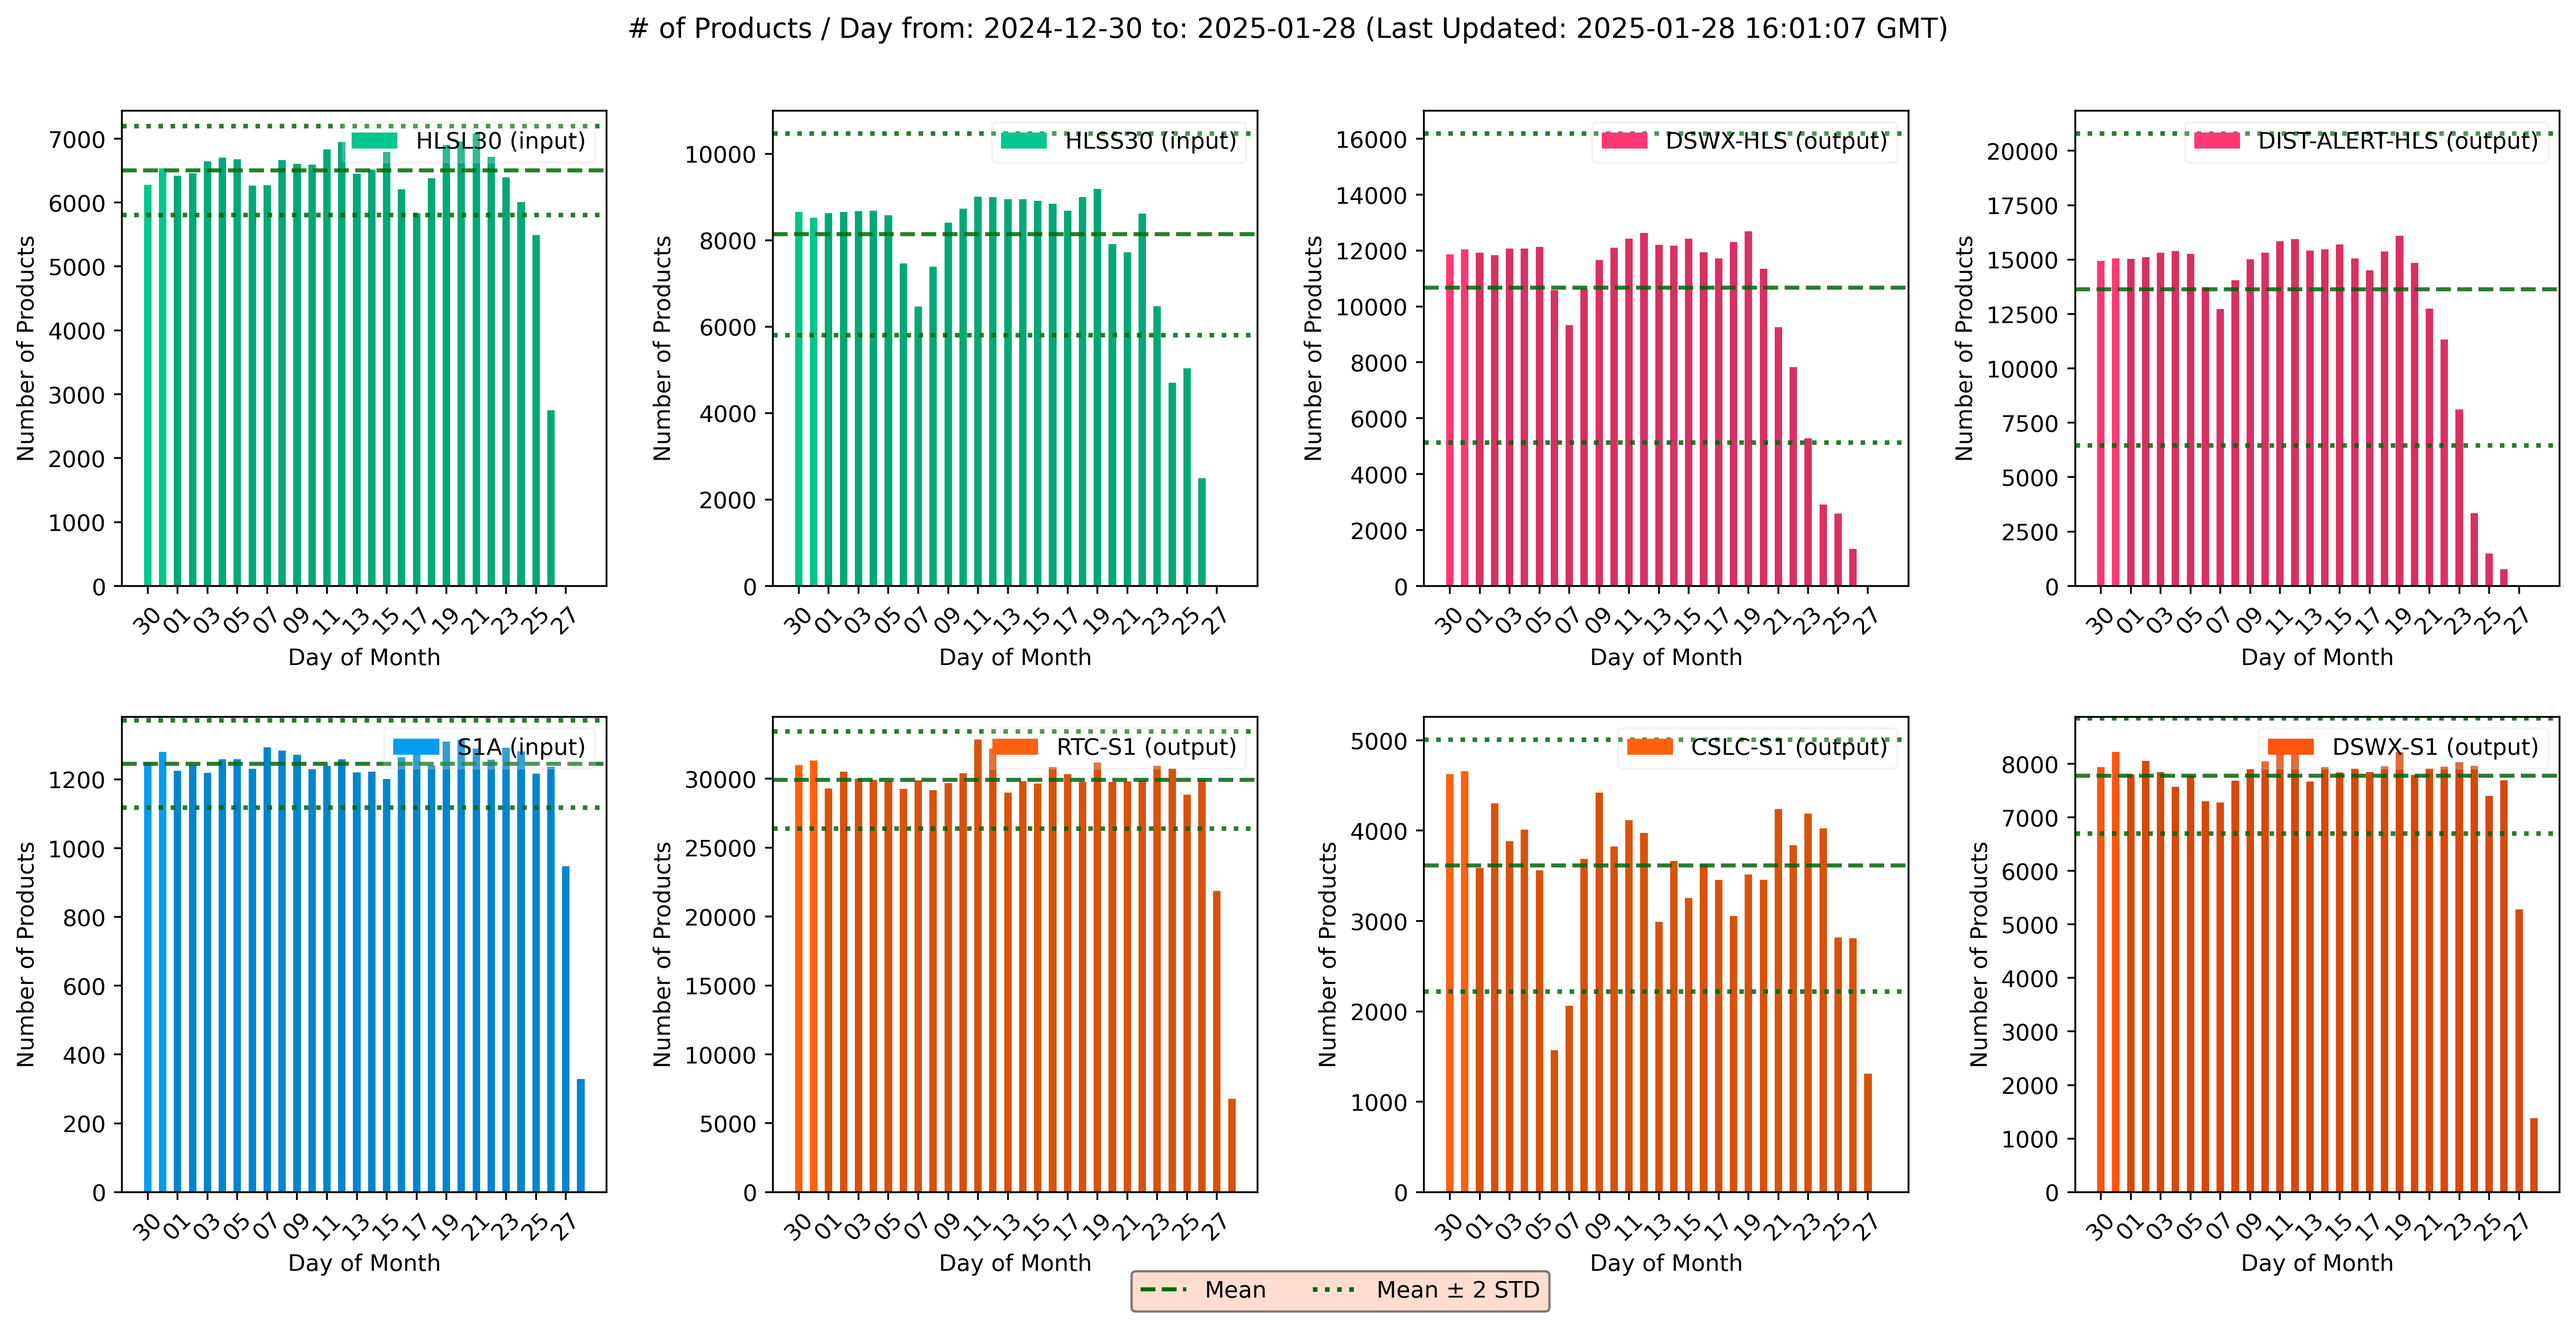
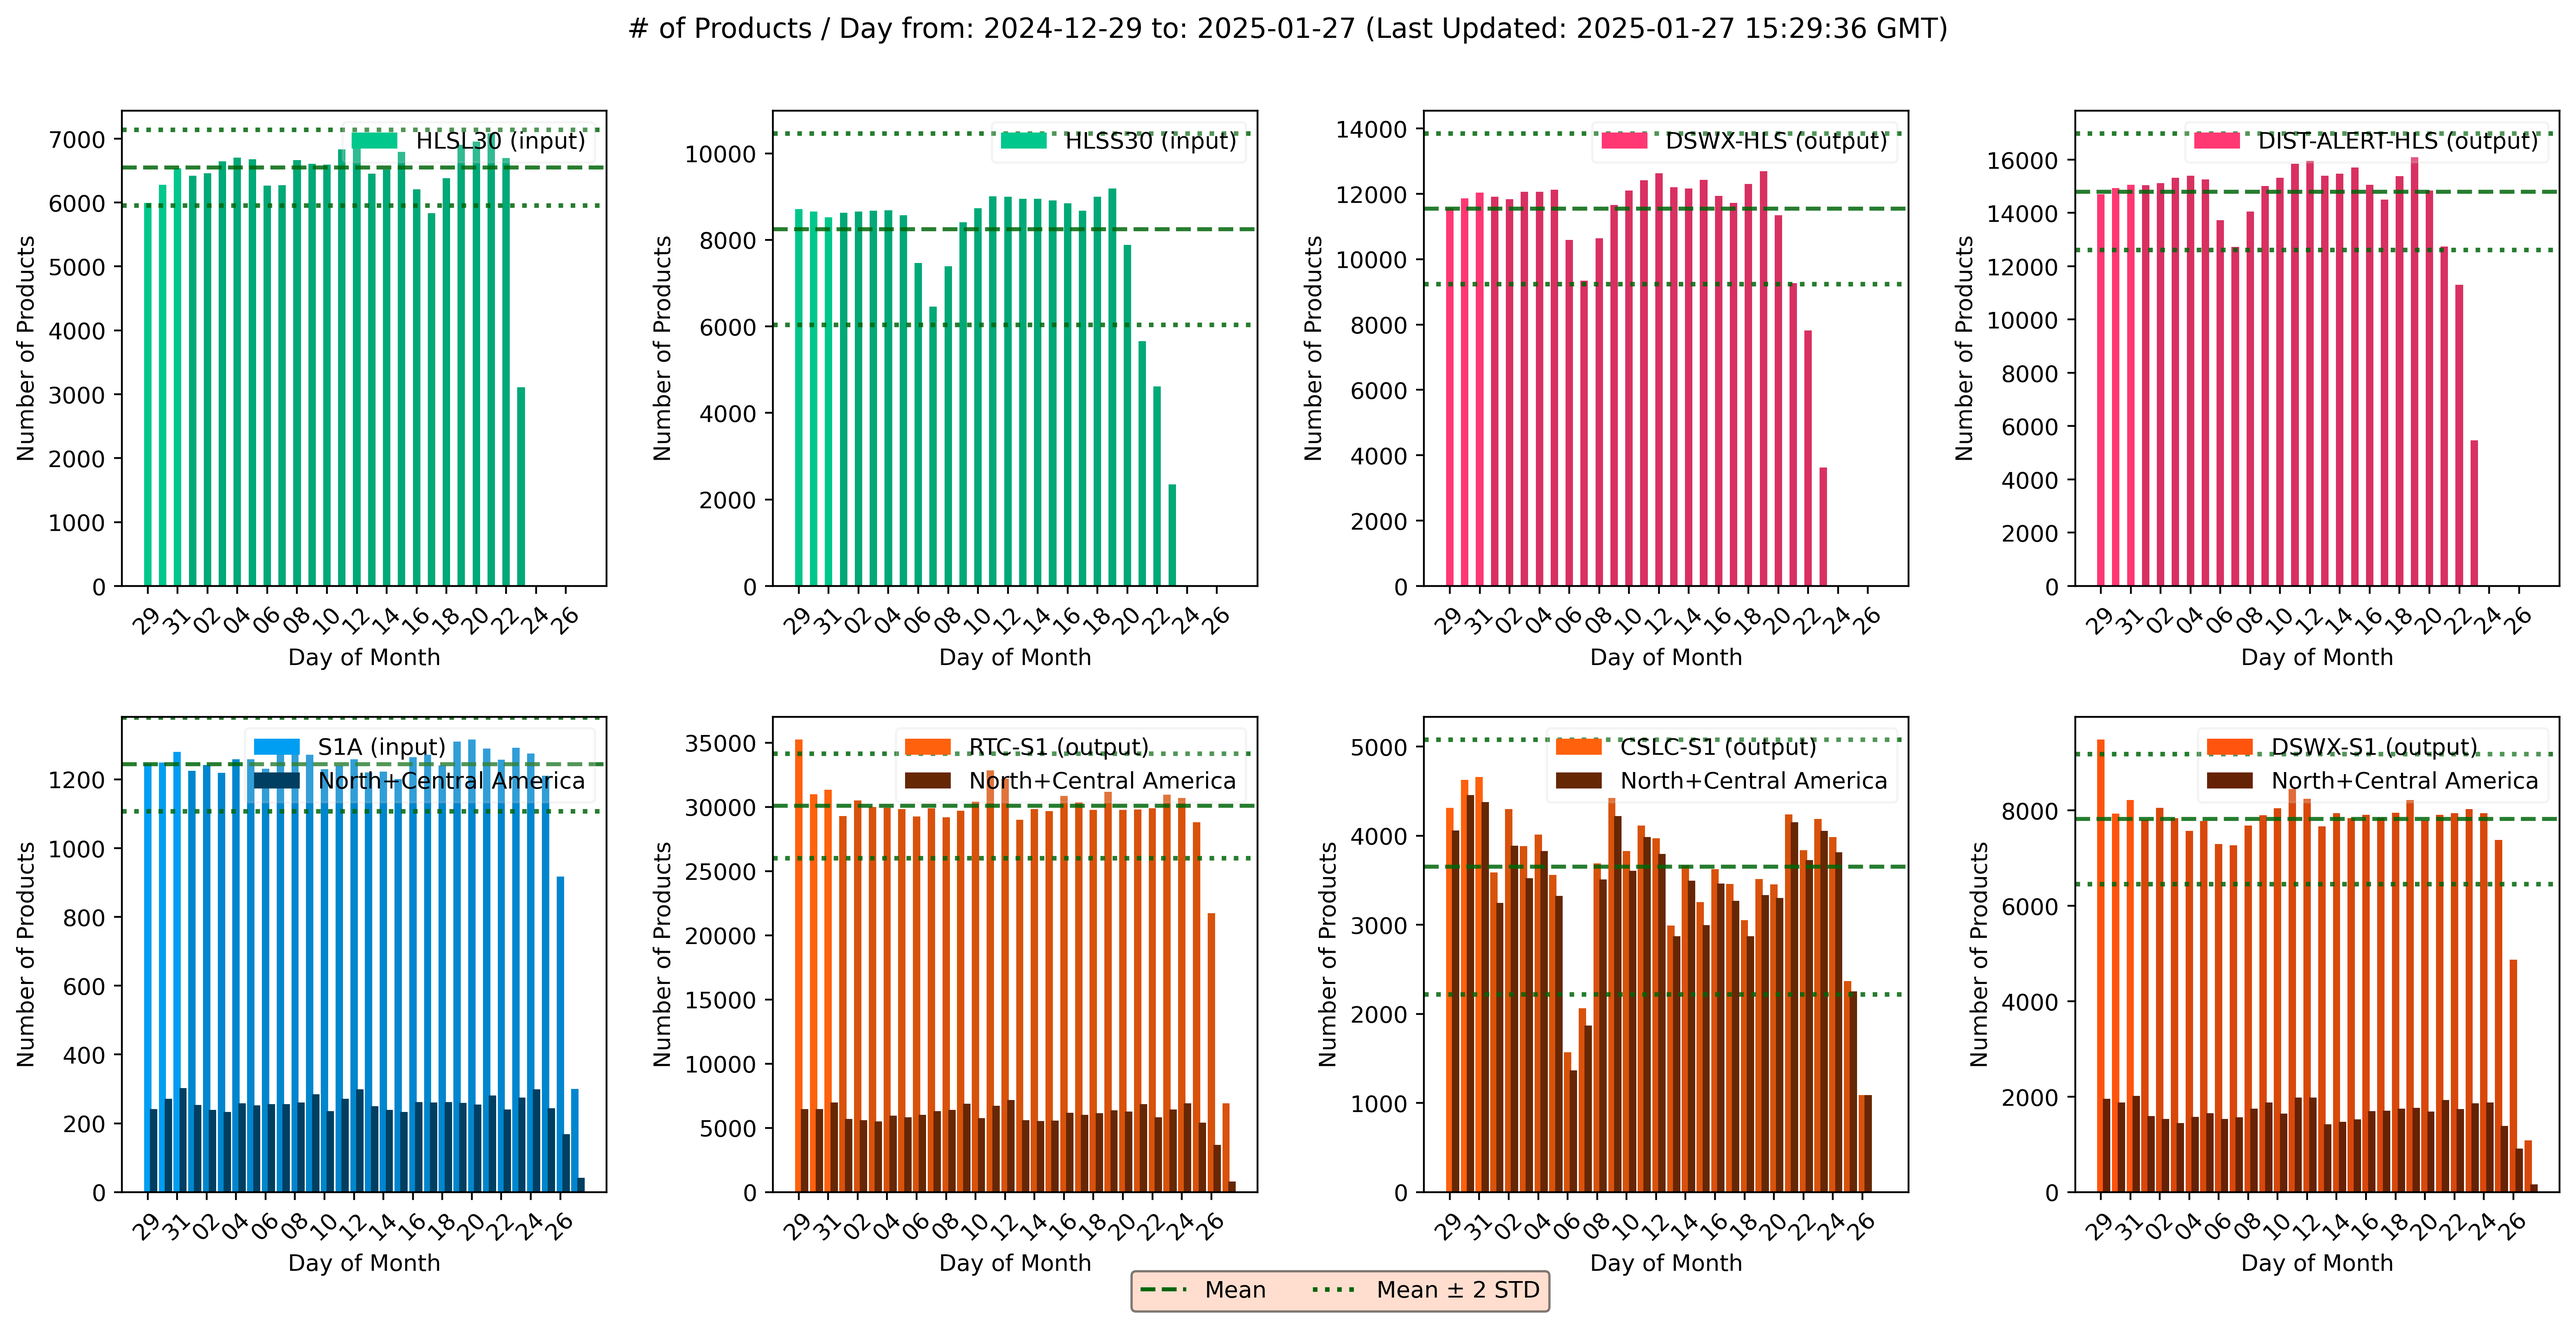
add north america double bar graph

diff --git a/monitoring/opera_daily_products_query.py b/monitoring/opera_daily_products_query.py
@@ -6,6 +6,7 @@ import datetime
 from datetime import timedelta
 from time import gmtime, strftime
 import logging
+import json
 
 from cmr import GranuleQuery
 import numpy as np
@@ -21,6 +22,7 @@ def get_args():
     """
     parser = argparse.ArgumentParser(description="Generate daily plots.")
     parser.add_argument('-q', '--quiet', action='store_true', help='Minimize output and run progress bar.')
+    parser.add_argument('-g', '--geojson', default="", help="geojson filepath")
     return parser.parse_args()
 
 
@@ -146,7 +148,67 @@ def check_data_points(sample, sigma_value):
             # TODO - may not need this test (check with Luca)
 
 
-def plot_products(quiet):
+def sort_counter_clockwise_coordinates(list_of_xy_coords):
+    #cmr only accepts points in counterclockwise
+    # print(list_of_xy_coords)
+    # get rid of duplicate coordinates
+    list_of_xy_coords = list(set(map(tuple,list_of_xy_coords)))
+    list_of_xy_coords = np.array(list_of_xy_coords)
+    cx, cy = list_of_xy_coords.mean(0)
+    x, y = list_of_xy_coords.T
+    angles = np.arctan2(x-cx, y-cy)
+    indices = np.argsort(-angles)
+    nodupe_list = list_of_xy_coords[indices]
+    nodupe_list = list(nodupe_list)
+    # cmr needs first and last to match
+    nodupe_list.append(nodupe_list[0])
+    print(nodupe_list)
+    print()
+    return nodupe_list
+    # return list_of_xy_coords[indices]
+
+
+def get_products(collection, date, geojson=None, geo_coordinates=None, north_america_flag=False, central_america_flag=False):
+    '''
+    Granule query api call
+    '''
+    NORTH_AMERICA_POLYGON = [[-81.84375, 5.01167], [-76.5, 12.32118], [-63.84375, 19.63068],
+                            [-72.84375, 28.90813], [-67.78125, 37.6233], [-48.09375, 47.74415],
+                            [-52.875, 57.58387], [-34.3125, 60.39521], [-25.59375, 67.42358],
+                            [-13.5, 71.35947], [-8.4375, 82.60486], [-36.84375, 87.10301],
+                            [-119.25, 82.60486], [-130.21875, 74.45195], [-168.75, 72.20287],
+                            [-169.3125, 64.61224], [-167.44922, 61.97351], [-168.50391, 59.47844],
+                            [-178.875, 52.85668], [-178.875, 49.90476], [-144.98438, 57.35483],
+                            [-128.39063, 44.70377], [-119.25, 25.58661], [-97.3125, 8.7115],
+                            [-81.84375, 5.01167]]
+
+    CENTRAL_AMERICA_POLYGON = [[-114.64453, 32.79634], [-117.35156, 32.62063], [-118.54688, 28.94831],
+                              [-110.10938, 21.7965], [-108, 23.69416], [-106.59375, 18.91487],
+                              [-87.96094, 11.11338], [-80.50781, 5.91239], [-78.25781, 6.26381],
+                              [-76.79883, 8.43563], [-78.43359, 10.45628], [-82.21289, 10.59685],
+                              [-82.01953, 14.30153], [-82.47656, 17.63308], [-86.625, 17.35194],
+                              [-85.85156, 22.2718], [-95.76563, 25.99684], [-98.89453, 26.81794],
+                              [-99.73828, 28.36418], [-101.32031, 30.12127], [-103.07813, 30.19155],
+                              [-103.28906, 29.59414], [-104.37891, 29.94556], [-105.22266, 31.63237],
+                              [-108.94922, 32.01893], [-110.91797, 31.59868], [-114.64453, 32.79634]]
+
+    api = GranuleQuery()
+    api.short_name(collection)
+    api.temporal(date, date + timedelta(days=1))
+    if geojson:
+        for ilist in geo_coordinates:
+            counter_clockwise_coords = sort_counter_clockwise_coordinates(ilist[0])
+            api.polygon(counter_clockwise_coords)
+    elif north_america_flag:
+        api.polygon(NORTH_AMERICA_POLYGON)
+    elif central_america_flag:
+        api.polygon(CENTRAL_AMERICA_POLYGON)
+    return api.hits()
+
+
+
+
+def plot_products(quiet, geojson="", north_america_flag=False, central_america_flag=False):
     """
     Generates a series of subplots, each depicting the daily count of products for various collections
     over a period of 30 days.
@@ -161,6 +223,11 @@ def plot_products(quiet):
     args = get_args()
     setup_logging(args.quiet)
 
+    if geojson:
+        f = open(geojson)
+        geojson_dict = json.load(f)
+        geo_coordinates = geojson_dict["features"][0]["geometry"]["coordinates"]
+
     NUM_DAYS = 30
     x_scale = 1.0  # Adjust to scale the width of the plot area
     y_scale = 0.9  # Adjust to scale the height of the plot area
@@ -171,6 +238,14 @@ def plot_products(quiet):
                    "SENTINEL-1A_SLC", "OPERA_L2_RTC-S1_V1", "OPERA_L2_CSLC-S1_V1", "OPERA_L3_DSWX-S1_V1"]
     LABELS = ["HLSL30 (input)", "HLSS30 (input)", "DSWX-HLS (output)",  "DIST-ALERT-HLS (output)",
               "S1A (input)", "RTC-S1 (output)", "CSLC-S1 (output)", "DSWX-S1 (output)"]
+
+    '''
+    if north_america_flag or central_america_flag:
+        COLLECTIONS = ["SENTINEL-1A_SLC", "OPERA_L2_RTC-S1_V1", "OPERA_L2_CSLC-S1_V1", "OPERA_L3_DSWX-S1_V1"]
+        LABELS = ["S1A (input)", "RTC-S1 (output)", "CSLC-S1 (output)", "DSWX-S1 (output)"]
+    '''
+    NA_COLLECTIONS = ["SENTINEL-1A_SLC", "OPERA_L2_RTC-S1_V1", "OPERA_L2_CSLC-S1_V1", "OPERA_L3_DSWX-S1_V1"]
+
     # Use complementary colors to differential input and output
     COLORS = [
         (0.0, 0.78, 0.55),   # Light Green
@@ -200,6 +275,7 @@ def plot_products(quiet):
     for ic, collection in enumerate(COLLECTIONS):
         ax = fig.add_subplot(2, 4, ic + 1)
         products = [0] * NUM_DAYS
+        na_products = [0] * NUM_DAYS
         current_month = dates_list[0].month  # Initialize the current month
         original_color = COLORS[ic]  # Store the original color
         # adjust lightening/darkening on month change based on what the graph represents
@@ -208,15 +284,21 @@ def plot_products(quiet):
         else:
             using_lightened = False
 
+        collection_name = collection
+        if north_america_flag:
+                collection_name = collection + " north america only"
+        elif central_america_flag:
+                collection_name = collection + " central america only"
+
         inner_progress_bar = tqdm(total=NUM_DAYS, desc=f"Processing {collection}", leave=False) if quiet else None
 
         for i, date in enumerate(dates_list):
-            api = GranuleQuery()
-            api.short_name(collection)
-            api.temporal(date, date + timedelta(days=1))
-            products[i] = api.hits()
-            logging.info(f"Collection: {collection} Day: {date} # of products in CMR: {products[i]}")
+            products[i] = get_products(collection, date, north_america_flag=False)
+            logging.info(f"Collection: {collection_name} Day: {date} # of products in CMR: {products[i]}")
 
+            if collection in NA_COLLECTIONS:
+                na_products[i] = get_products(collection, date, north_america_flag=True)
+                logging.info(f"North America only Collection: {collection_name} Day: {date} # of products in CMR: {na_products[i]}")
             # Check for month change to toggle the color state
             if date.month != current_month:
                 using_lightened = not using_lightened  # Toggle the state for the new month
@@ -228,7 +310,15 @@ def plot_products(quiet):
             else:
                 color = original_color  # Use the original color without any modification)
 
-            ax.bar(x_values[i], products[i], width=bar_width, color=color)
+
+
+            if collection in NA_COLLECTIONS:
+                x_width = 0.4
+                na_color = adjust_saturation(original_color, 60, lighten=False)
+                ax.bar(x_values[i], products[i], width=bar_width, color=color)
+                ax.bar(x_values[i] + x_width, na_products[i], width=bar_width, color=na_color)
+            else:
+                ax.bar(x_values[i], products[i], width=bar_width, color=color)
 
             if inner_progress_bar:
                 inner_progress_bar.update(1)  # Update the inner progress bar
@@ -239,9 +329,12 @@ def plot_products(quiet):
         if outer_progress_bar:
             outer_progress_bar.update(1)
 
-        [samples, mean, std_sigma] = get_statistics(products, collection, debug=True)
+        [samples, mean, std_sigma] = get_statistics(products, collection_name, debug=True)
 
-        ax.legend([LABELS[ic]], loc="upper right", framealpha=0.2)
+        label = [LABELS[ic]]
+        if collection in NA_COLLECTIONS:
+            label.append("North+Central America")
+        ax.legend(label, loc="upper right", framealpha=0.2)
         ax.axhline(mean, color=(0.0, 0.4, 0.04, 0.85), linestyle='--', linewidth=1.75, label='Mean')
         ax.axhline(std_sigma[0], color=(0.0, 0.4, 0.04, 0.85), linestyle=':', linewidth=2.0, label='-2-sigma')
         ax.axhline(std_sigma[1], color=(0.0, 0.4, 0.04, 0.85), linestyle=':', linewidth=2.0, label='+2-sigma')
@@ -268,7 +361,14 @@ def plot_products(quiet):
                facecolor=(1.0, 0.75, 0.63, 0.75), edgecolor='black')
 
     plt.tight_layout(pad=2.0)
-    plt.savefig('opera_daily_products_query.png', bbox_inches='tight', dpi=400)
+    png_basename = 'opera_daily_products_query'
+    if north_america_flag:
+        png_basename += "_north_america_only"
+    elif central_america_flag:
+        png_basename += "_central_america_only"
+    png_filename = png_basename + ".png"
+
+    plt.savefig(png_filename, bbox_inches='tight', dpi=400)
 #    plt.show()
 
     if args.quiet:
@@ -280,6 +380,10 @@ def main():
     args = get_args()
     setup_logging(args.quiet)
     plot_products(args.quiet)
+    # plot_products(args.quiet, north_america_flag=True)
+    # plot_products(args.quiet, central_america_flag=True)
+    # if args.geojson:
+    #     plot_products(args.quiet, geojson=args.geojson)
 
 
 if __name__ == '__main__':
